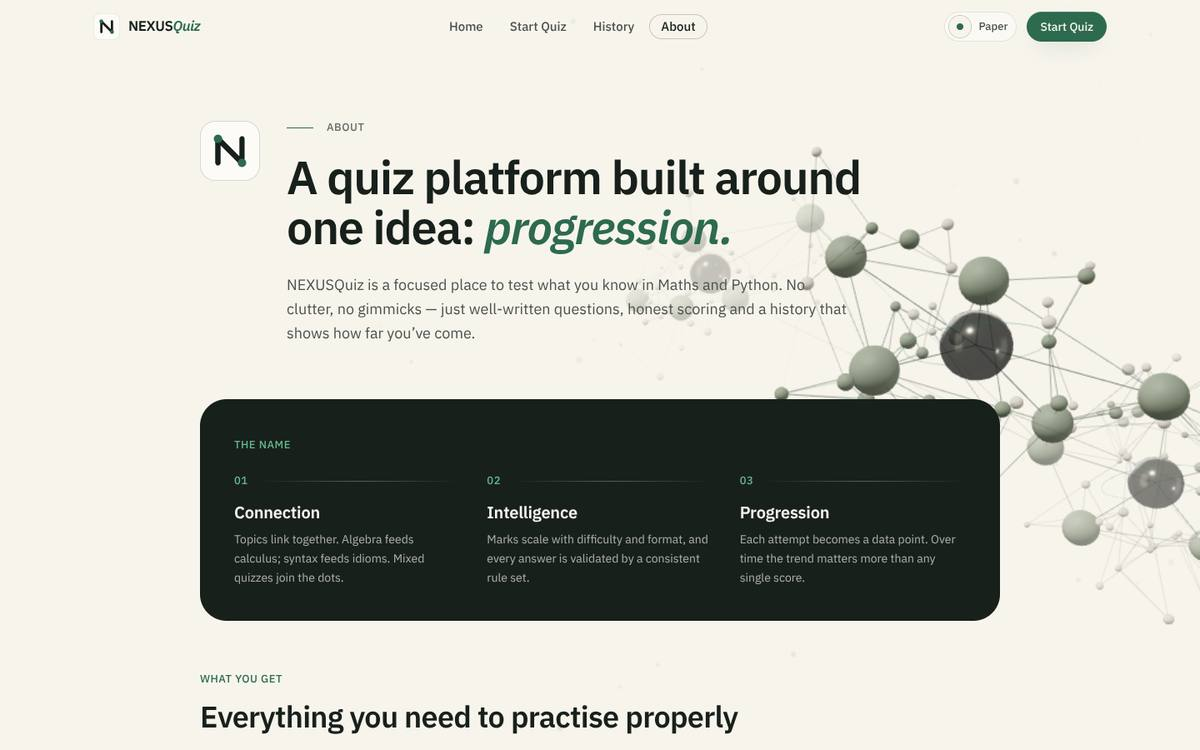
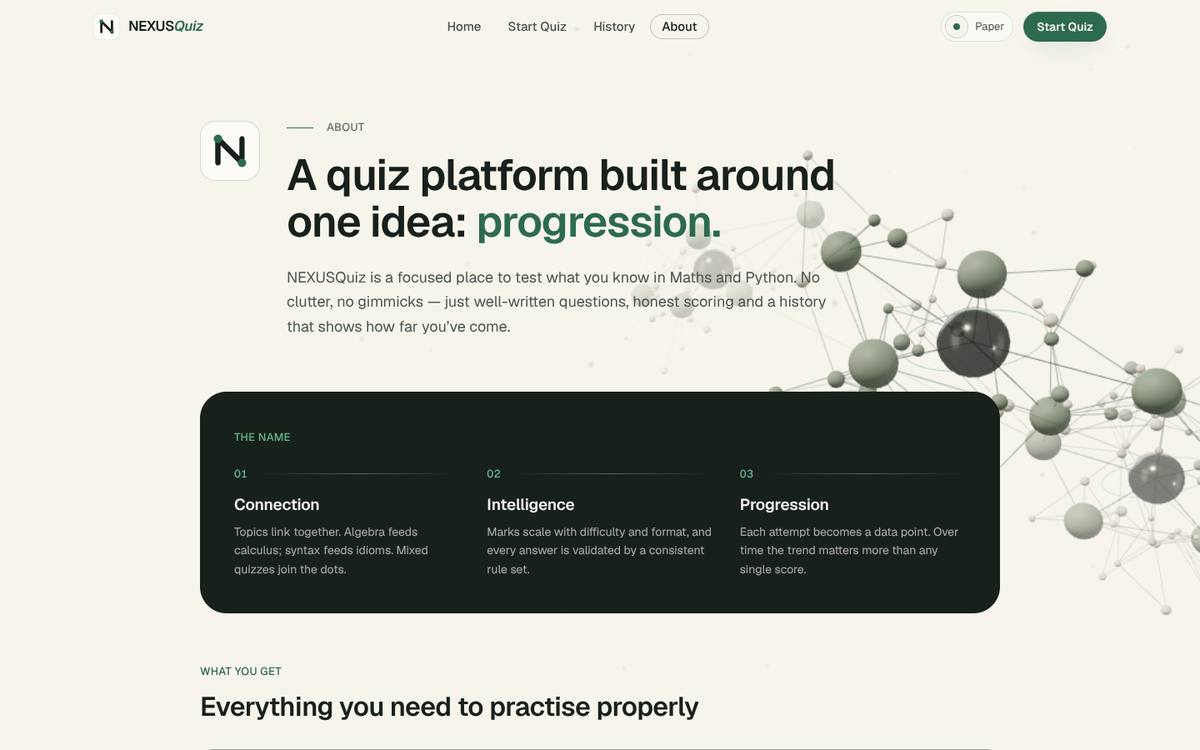
Typography: roles emitted unlayered (all 17 always ship), t-meta for metadata, Plex removed, docs/TYPOGRAPHY.md rewritten with Geist-vs-Inter comparison + measured scale; screenshots

diff --git a/src/styles/globals.css b/src/styles/globals.css
@@ -81,38 +81,6 @@
     --nx-lh-heading: 1.15;
   }
 
-  /* ── Expressive register (Home hero only) ─────────────────────────── */
-  .t-hero     { font-size: var(--nx-fs-display); line-height: 1.04; letter-spacing: -0.028em; font-weight: 700; }
-  /* the one italic in the product: a true italic, same weight as its parent */
-  .t-italic   { font-style: italic; font-weight: inherit; letter-spacing: -0.01em; }
-
-  /* ── Headings ─────────────────────────────────────────────────────── */
-  .t-title    { font-size: var(--nx-fs-h1); line-height: 1.08; letter-spacing: -0.022em; font-weight: 600; }
-  .t-section  { font-size: var(--nx-fs-h2); line-height: 1.18; letter-spacing: -0.016em; font-weight: 600; }
-  .t-h3       { font-size: var(--nx-fs-h3); line-height: 1.32; letter-spacing: -0.008em; font-weight: 600; }
-
-  /* ── Quiz — the most important roles in the product ───────────────── */
-  .t-question { font-size: var(--nx-fs-question); line-height: 1.38; letter-spacing: -0.01em; font-weight: 500; }
-  .t-answer   { font-size: var(--nx-fs-answer); line-height: 1.5; letter-spacing: 0; font-weight: 450; }
-
-  /* ── Text ─────────────────────────────────────────────────────────── */
-  .t-lead     { font-size: var(--nx-fs-lead); line-height: 1.55; font-weight: 400; }
-  .t-body     { font-size: var(--nx-fs-body); line-height: var(--nx-lh-body); font-weight: 400; }
-
-  /* ── UI ───────────────────────────────────────────────────────────── */
-  .t-nav      { font-size: var(--nx-fs-nav); line-height: 1.2; font-weight: 500; letter-spacing: 0; }
-  .t-button   { font-size: var(--nx-fs-button); line-height: 1; font-weight: 600; letter-spacing: 0; }
-  /* Metadata — sentence case, no tracking: "Fig. 01 — three regions", "48 questions", context lines */
-  .t-meta     { font-size: var(--nx-fs-meta); line-height: 1.4; font-weight: 500; letter-spacing: 0; }
-  /* Label — the only uppercase role: short column heads / eyebrows. Modest tracking, 13px floor. */
-  .t-label    { font-size: var(--nx-fs-label); line-height: 1.3; font-weight: 500; letter-spacing: 0.03em; text-transform: uppercase; }
-  .t-caption  { font-size: var(--nx-fs-caption); line-height: 1.45; font-weight: 400; letter-spacing: 0; }
-
-  /* ── Numbers ──────────────────────────────────────────────────────── */
-  .t-stat-sm  { font-size: 2.125rem; line-height: 1; letter-spacing: -0.02em; font-weight: 600; font-variant-numeric: tabular-nums; }
-  .t-stat     { font-size: var(--nx-fs-stat); line-height: 1; letter-spacing: -0.025em; font-weight: 600; font-variant-numeric: tabular-nums; }
-  .t-score    { font-size: var(--nx-fs-score); line-height: 0.95; letter-spacing: -0.035em; font-weight: 600; font-variant-numeric: tabular-nums; }
-
   ::selection {
     background: var(--nx-accent);
     color: var(--nx-text-inverse);
@@ -141,6 +109,41 @@
     border-radius: 0.5rem;
   }
 }
+
+/* Type roles — unlayered on purpose so every role is always emitted as a class */
+/* ── Expressive register (Home hero only) ─────────────────────────── */
+.t-hero     { font-size: var(--nx-fs-display); line-height: 1.04; letter-spacing: -0.028em; font-weight: 700; }
+/* the one italic in the product: a true italic, same weight as its parent */
+.t-italic   { font-style: italic; font-weight: inherit; letter-spacing: -0.01em; }
+
+/* ── Headings ─────────────────────────────────────────────────────── */
+.t-title    { font-size: var(--nx-fs-h1); line-height: 1.08; letter-spacing: -0.022em; font-weight: 600; }
+.t-section  { font-size: var(--nx-fs-h2); line-height: 1.18; letter-spacing: -0.016em; font-weight: 600; }
+.t-h3       { font-size: var(--nx-fs-h3); line-height: 1.32; letter-spacing: -0.008em; font-weight: 600; }
+
+/* ── Quiz — the most important roles in the product ───────────────── */
+.t-question { font-size: var(--nx-fs-question); line-height: 1.38; letter-spacing: -0.01em; font-weight: 500; }
+.t-answer   { font-size: var(--nx-fs-answer); line-height: 1.5; letter-spacing: 0; font-weight: 450; }
+
+/* ── Text ─────────────────────────────────────────────────────────── */
+.t-lead     { font-size: var(--nx-fs-lead); line-height: 1.55; font-weight: 400; }
+.t-body     { font-size: var(--nx-fs-body); line-height: var(--nx-lh-body); font-weight: 400; }
+
+/* ── UI ───────────────────────────────────────────────────────────── */
+.t-nav      { font-size: var(--nx-fs-nav); line-height: 1.2; font-weight: 500; letter-spacing: 0; }
+.t-button   { font-size: var(--nx-fs-button); line-height: 1; font-weight: 600; letter-spacing: 0; }
+/* Metadata — sentence case, no tracking: "Fig. 01 — three regions", "48 questions", context lines */
+.t-meta     { font-size: var(--nx-fs-meta); line-height: 1.4; font-weight: 500; letter-spacing: 0; }
+/* Label — the only uppercase role: short column heads / eyebrows. Modest tracking, 13px floor. */
+.t-label    { font-size: var(--nx-fs-label); line-height: 1.3; font-weight: 500; letter-spacing: 0.03em; text-transform: uppercase; }
+.t-caption  { font-size: var(--nx-fs-caption); line-height: 1.45; font-weight: 400; letter-spacing: 0; }
+
+/* ── Numbers ──────────────────────────────────────────────────────── */
+.t-stat-sm  { font-size: 2.125rem; line-height: 1; letter-spacing: -0.02em; font-weight: 600; font-variant-numeric: tabular-nums; }
+.t-stat     { font-size: var(--nx-fs-stat); line-height: 1; letter-spacing: -0.025em; font-weight: 600; font-variant-numeric: tabular-nums; }
+.t-score    { font-size: var(--nx-fs-score); line-height: 0.95; letter-spacing: -0.035em; font-weight: 600; font-variant-numeric: tabular-nums; }
+
+
 
 /* ═══════════════════════════════════════════════════════════
    Components

diff --git a/docs/TYPOGRAPHY.md b/docs/TYPOGRAPHY.md
@@ -1,69 +1,120 @@
-# NEXUSQuiz — Typography System
+# NEXUSQuiz typography — Geist Sans, two registers
 
-_One typeface. Eleven roles. Three weights._ Applied 2026-09-05; source of truth is `src/styles/globals.css` (`:root` type variables + `.t-*` classes).
+Scope: typography only. Palette, themes, layout, components, 3D, content,
+routing and backend untouched. The only markup edits are removing italic
+spans on product pages and adding two responsive `<br>`s in the hero.
 
-## 1. Typeface decision
+## Typeface: Geist Sans (variable) — over Inter
 
-Compared (all open-source, all designed for screens):
+Both were rendered side-by-side with real NEXUSQuiz content (hero, a long
+question, code-like answers, body, nav, button, a 55.9 % statistic) at the
+exact sizes the system uses. Geist was chosen because:
 
-| Typeface | Facts (researched) | Verdict for NEXUSQuiz |
-| --- | --- | --- |
-| **IBM Plex Sans** | Designed by Mike Abbink with Bold Monday for IBM (released 2017/2018), 7 weights + true italics, SIL OFL, grotesque with open counters and a distinctive but neutral voice; built to "read cleanly at every scale without imposing its own voice". Sources: [Wikipedia](https://en.wikipedia.org/wiki/IBM_Plex), [Type Barn](https://typebarn.com/font/ibm-plex-sans) | **Chosen.** Clear at 13–17 px, excellent numerals (open 3/6/9, distinguishable 0/O and 1/l/I — important for maths answers like `[[2,0],[0,3]]`), real italics for emphasis, and a slightly warmer, more "printed" character than Inter that suits the paper theme. Tabular figures available. |
-| Inter | Rasmus Andersson, designed for UI, tall x-height, tabular numbers, contextual alternates; the most common product-UI face on the web. Sources: [featuredtype](https://www.featuredtype.com/typefaces/inter) | Excellent, but extremely generic ("every SaaS dashboard") and its italics are slanted romans. Rejected for identity reasons, not readability. |
-| Geist | Vercel/basement.studio, Swiss-influenced, variable 100–900, on Google Fonts since Oct 2024. Source: [FontAlternatives](https://fontalternatives.com/fonts/geist/) | Cool, technical, very close to Inter in feel; reads as "developer tool". Rejected. |
+- **The hero reads as a product brand, not a portfolio.** Geist's italic is a
+  true slanted italic with a slightly narrower set; "node." and "connection."
+  stay in the same voice as the roman rather than turning into a second font.
+  Inter's italic is wider and softer and the emphasised words start to float.
+- **Answers and code.** `len([10,20,30])`, `x^2 − 9`, `Il1 O0`, `{1,2,3} ∩
+  {3,4,5}` — Geist's brackets, braces, operators and digits are more open at
+  17 px and the `1 / l / I` trio is distinguishable without enabling
+  stylistic sets. Inter needs `cv11`/`ss01` to get close.
+- **Restraint.** Geist has a slightly tighter default fit and a calmer
+  lowercase, which suits a paper/ink system where nothing else is loud.
+- **Integration.** Self-hosted from `@fontsource-variable/geist` (SIL OFL);
+  one roman + one italic variable file for latin, so 400/450/500/600/700 all
+  come from two requests. IBM Plex Sans removed; no Google Fonts.
 
-Decorative faces removed: **Instrument Serif** (display) and **JetBrains Mono** (labels) are gone. Every role below is IBM Plex Sans. The font is **self-hosted** via `@fontsource/ibm-plex-sans` (latin 400 / 400 italic / 500 / 600 / 600 italic, ~24 kB each) — no Google Fonts request, no flash of fallback type, works offline.
+Inter remains a fine fallback but did not produce a stronger result, so the
+brief's rule ("Geist if clearly better") applies.
 
-## 2. Roles (tokens)
+## Two registers
 
-| Role | Class | Size | Line-height | Tracking | Weight | Used for |
-| --- | --- | --- | --- | --- | --- | --- |
-| Display / Hero | `.t-hero` | 44 → 88 px (fluid) | 1.02 | −0.03em | 600 | Home headline only |
-| H1 | `.t-title` | 34 → 56 px | 1.08 | −0.025em | 600 | Page titles (Setup, History, About, Home CTA) |
-| H2 | `.t-section` | 26 → 36 px | 1.15 | −0.02em | 600 | Section headings |
-| H3 | `.t-h3` | 20 px | 1.3 | −0.01em | 600 | Row / card titles, step numbers |
-| **Question** | `.t-question` | **22 → 30 px** | **1.35** | −0.012em | **500** | Quiz question — the priority role |
-| **Answer** | `.t-answer` | **17 px** | **1.5** | 0 | 400 (500 when selected) | MCQ options, typed-answer field |
-| Lead | `.t-lead` | 18 px | 1.55 | 0 | 400 | Intro paragraphs |
-| Body | `.t-body` / default | 16 px | 1.6 | 0 | 400 | Everything else |
-| Navigation | `.t-nav` | 15 px | 1.2 | 0 | 500 | Header + mobile menu links |
-| Label | `.t-label` | **13 px** (floor) | 1.3 | +0.04em | 500 | Eyebrows, figure captions, indices, "Selected" states (uppercase) |
-| Caption | `.t-caption` | 13 px | 1.45 | 0 | 400 | Helper text, hints, meta |
-| Button | `.t-button` | 15 px (17 px in `.btn-lg`) | 1 | 0 | 500 | All buttons |
-| Stat | `.t-stat` / `.t-stat-sm` | 40 → 72 px / 36 px | 1 | −0.03em | 600, tabular | History summary, Result ledger, marks |
-| Score | `.t-score` | 64 → 128 px | 0.95 | −0.04em | 600, tabular | Result percentage |
-| Emphasis | `.t-italic` | inherits | — | — | inherits, italic | One emphasised phrase per heading (true italics) |
+| Register    | Where                 | Roles                          | Italic | Weight |
+| ----------- | --------------------- | ------------------------------ | ------ | ------ |
+| Expressive  | Home hero, logo mark  | `.t-hero`, `.t-italic`         | yes    | 700    |
+| Product     | everything else       | all other roles                | never  | 400–600 |
 
-Rules enforced by the system:
-- **Minimum text size 13 px** (was 10–11 px mono labels). Nothing that must be read is smaller.
-- **Letter-spacing** ≤ +0.04em on uppercase labels (was +0.18–0.22em); negative tracking only on ≥ 26 px headings.
-- **Weights: 400 / 500 / 600 only.** No thin, no bold-900.
-- Headings use `text-wrap: balance`; question text uses `text-pretty`, max ~26ch line length.
-- Numbers use `font-variant-numeric: tabular-nums` (`.num`) wherever they align (scores, attempts, timers).
+The italic device is now used in exactly two places: the hero's "node." and
+"connection.", and the *Quiz* in the wordmark. Setup, Result, History, About
+and the lower Home sections had their italic spans removed and now use plain
+weight/colour contrast.
 
-## 3. Contrast (WCAG 2.2 AA, measured on the actual token pairs, Paper theme)
+## Role scale (measured in the built app)
 
-| Pair | Ratio | Requirement |
-| --- | --- | --- |
-| Question text `#1A1917` on canvas `#F2EEE5` | 15.2:1 | 4.5 ✓ |
-| Answer text `#54524D` on card `#F9F6F0` | 7.2:1 | 4.5 ✓ |
-| Selected answer `#1A1917` on card | 16.3:1 | 4.5 ✓ |
-| Body `#54524D` on canvas | 6.7:1 | 4.5 ✓ |
-| Caption 13 px `#68645C` on canvas | 5.1:1 | 4.5 ✓ |
-| Caption 13 px on darker surface `#E9E4D9` | 4.6:1 | 4.5 ✓ (text-3 darkened from `#6E6A62` for this) |
-| Label accent `#A83410` on canvas | 5.7:1 | 4.5 ✓ |
-| Accent `#CC3C18` (≥ 24 px / graphics only) | 4.3:1 | 3 ✓ |
-| Button text `#F4F1EA` on ink | 15.6:1 | 4.5 ✓ |
-| Success / warning / error stats | 4.9 / 4.6 / 5.2:1 | 4.5 ✓ |
+| Role            | Class          | Size (mobile → laptop) | Weight | Line-height | Tracking |
+| --------------- | -------------- | ---------------------- | -----: | ----------: | -------: |
+| Display / hero  | `.t-hero`      | 42 → 84 px             | 700    | 1.04        | −0.028em |
+| H1 / page title | `.t-title`     | 32 → 52 px             | 600    | 1.08        | −0.022em |
+| H2 / section    | `.t-section`   | 24 → 32 px             | 600    | 1.18        | −0.016em |
+| H3 / row title  | `.t-h3`        | 19 px                  | 600    | 1.32        | −0.008em |
+| **Question**    | `.t-question`  | 22 → 28 px             | 500    | 1.38        | −0.01em  |
+| **Answer**      | `.t-answer`    | 17 px                  | 450    | 1.5         | 0        |
+| Lead            | `.t-lead`      | 18 px                  | 400    | 1.55        | 0        |
+| Body            | `.t-body`      | 16 px                  | 400    | 1.6         | 0        |
+| Navigation      | `.t-nav`       | 15 px                  | 500    | 1.2         | 0        |
+| Button          | `.t-button`    | 15 px                  | 600    | 1           | 0        |
+| Metadata        | `.t-meta`      | 14 px                  | 500    | 1.4         | 0        |
+| Label (eyebrow) | `.t-label`     | 13 px                  | 500    | 1.3         | +0.03em, uppercase |
+| Caption         | `.t-caption`   | 13 px                  | 400    | 1.45        | 0        |
+| Statistic       | `.t-stat`      | 37 → 64 px             | 600    | 1           | −0.025em |
+| Statistic small | `.t-stat-sm`   | 34 px                  | 600    | 1           | −0.02em  |
+| Score           | `.t-score`     | 60 → 120 px            | 600    | 0.95        | −0.035em |
 
-Ink (dark) theme uses the same roles; its pairs were audited earlier (text-3 ≈ 4.9:1, accent 6.6:1).
+Measured at 390 / 820 / 1366 / 1920 px: fluid roles scale smoothly, fixed
+roles (answer, nav, button, label, caption) do not drift. 13 px is the floor
+for anything that must be read. Weights used: 400 / 450 / 500 / 600 / 700 —
+no 300.
 
-## 4. What changed in code
-- `index.html`: Google Fonts links removed.
-- `src/main.tsx`: five `@fontsource/ibm-plex-sans` imports.
-- `tailwind.config.js`: `sans`, `display`, `mono` all alias IBM Plex Sans (legacy class names can't reintroduce a second family).
-- `src/styles/globals.css`: type variables + `.t-*` roles; `.eyebrow`, `.index`, `.figcap`, `.opener`, `.chip`, `.choice-key`, `kbd.key`, `.stat-big`, buttons now compose the roles.
-- All pages/components: `font-display` / `font-mono` / `text-[10px]` / `text-[11px]` / wide tracking removed and mapped to roles. Trend chart axis labels 10 → 12 px.
-- `tokens.css`: `--nx-text-3` darkened one step for AA on every surface.
+Roles are emitted **unlayered** in `globals.css` so every class always ships,
+including the ones only reached through `@apply` (`.t-button` in buttons,
+`.t-meta` in `.figcap`).
 
-Not touched: 3D scene, theme colours (other than text-3), layouts, backend, API, quiz logic.
+## Metadata and labels
+
+Two roles instead of one, so small text stops being decorative noise:
+
+- `.t-meta` (14 px, 500, sentence case, no tracking) — figure captions
+  ("Fig. 01 — three regions of knowledge, 96 nodes"), quiz context lines
+  ("Python · Easy · Choose one"), ledger heads, "48 questions", "Scroll to move
+  through it". `.figcap` now maps here.
+- `.t-label` (13 px, 500, uppercase, +0.03em) — short eyebrows and index
+  marks only ("01 — Regions", "Living knowledge network"). Tracking reduced
+  from 0.04em.
+
+## Hero
+
+`t-hero` at 700 (the only 700 in the product), −0.028em, line-height 1.04.
+Line breaks are controlled: on ≥ 640 px it always sets as
+
+```
+Every question
+is a node.
+Every answer,
+a connection.
+```
+
+so the two emphasised words each close a line; on phones the `<br>`s are
+dropped and `text-balance` handles it. Green is used on one word. No
+gradient, glow, outline or letter-spacing tricks.
+
+## Quiz
+
+Reading order is enforced by size and weight alone: question 28 px / 500 →
+answers 17 px / 450 (a hair above body so options read as choices, not
+prose) → progress in `t-meta` 14 px → action in `t-button` 15 px / 600.
+Answer rows keep 14 px horizontal padding and 56 px minimum height; long
+options wrap with `overflow-wrap: anywhere`.
+
+## Both themes
+
+Identical roles, sizes, weights and spacing on Paper and Ink — verified by
+screenshot at every page. Only colour tokens differ.
+
+## Files touched
+
+- `src/main.tsx` — Geist variable roman + italic imports; IBM Plex Sans imports removed.
+- `tailwind.config.js` — font family.
+- `src/styles/globals.css` — type tokens and roles (unlayered), `.figcap → .t-meta`, base heading defaults.
+- `src/pages/Home.tsx` — controlled hero breaks; two lower italic spans removed.
+- `src/pages/Setup.tsx`, `Result.tsx`, `History.tsx`, `About.tsx` — italic spans removed.
+- `package.json` — `@fontsource-variable/geist` added; `@fontsource/ibm-plex-sans` removed. Inter was installed only for the comparison and is not a dependency.
